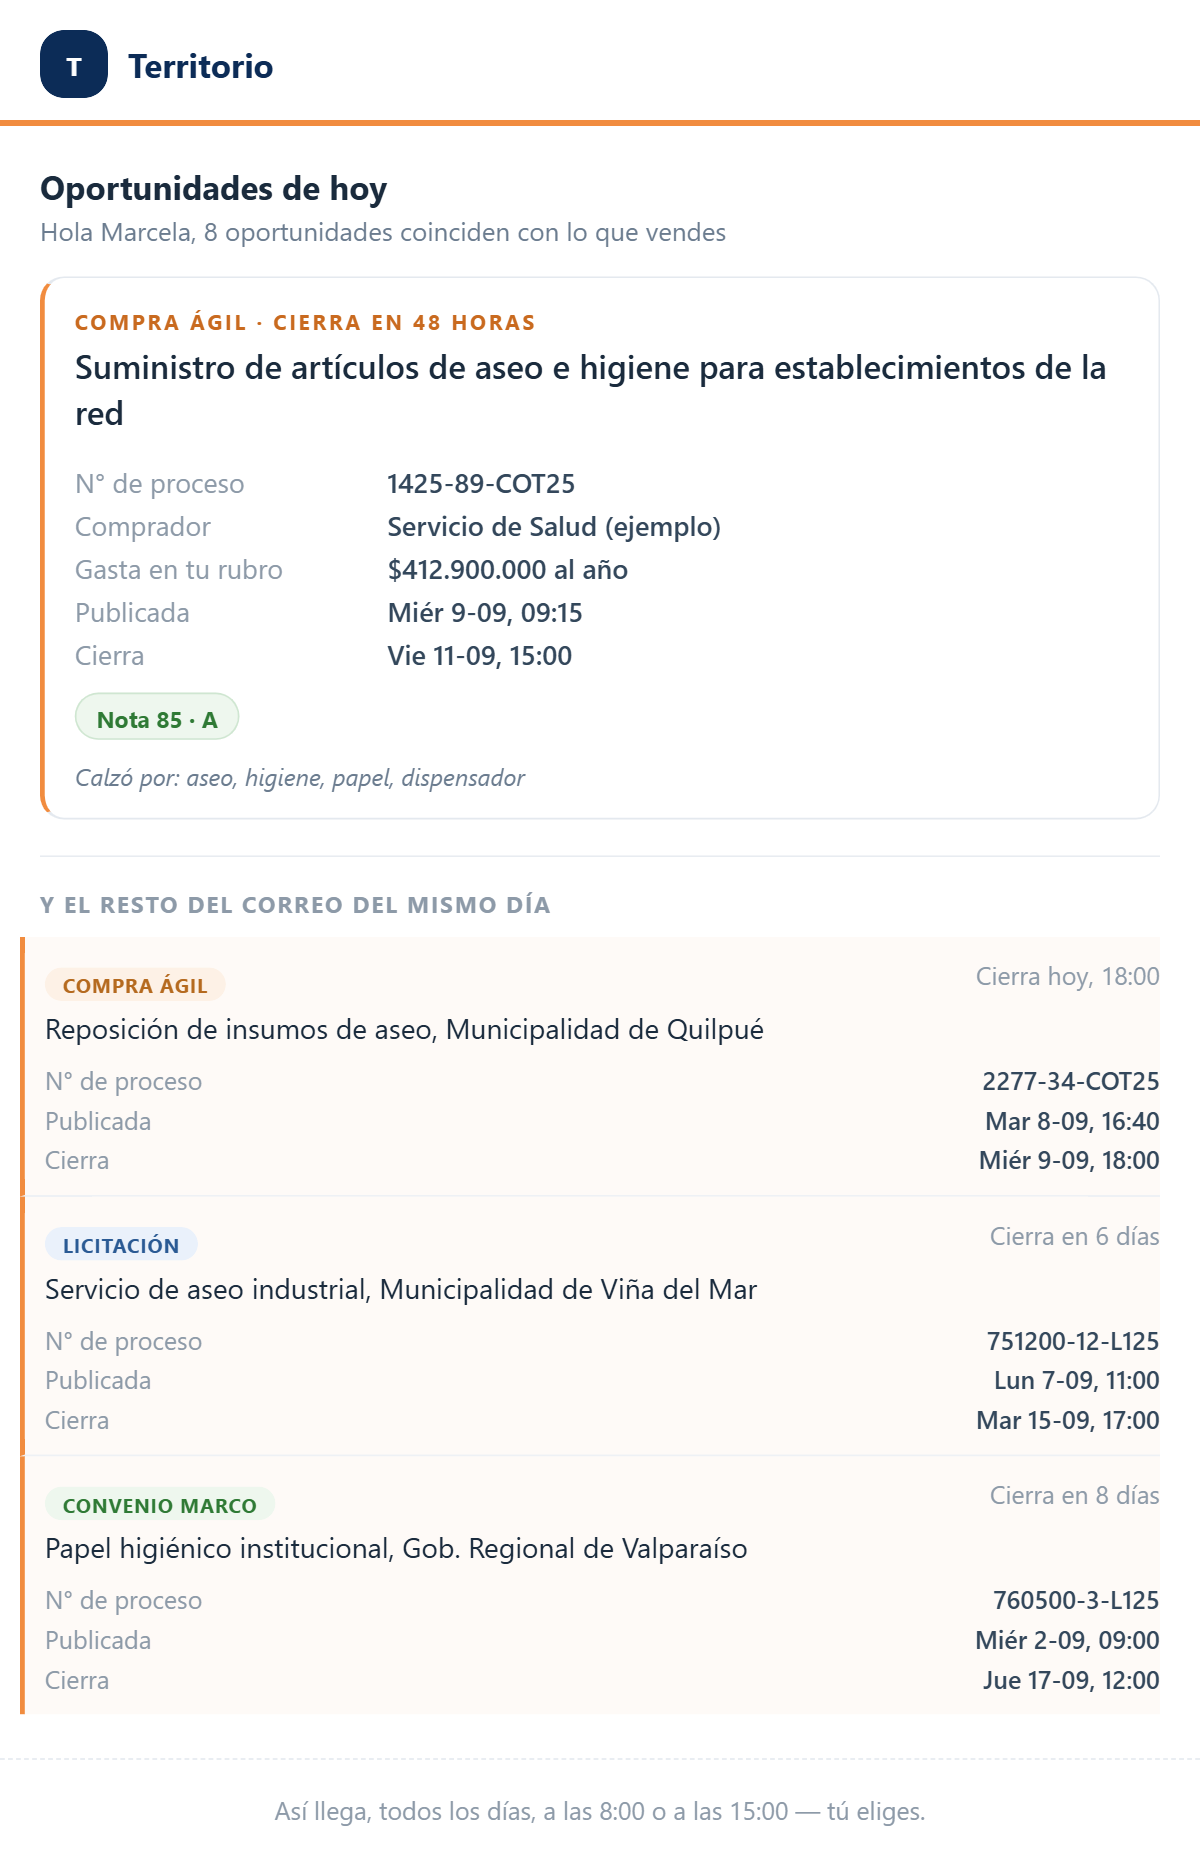
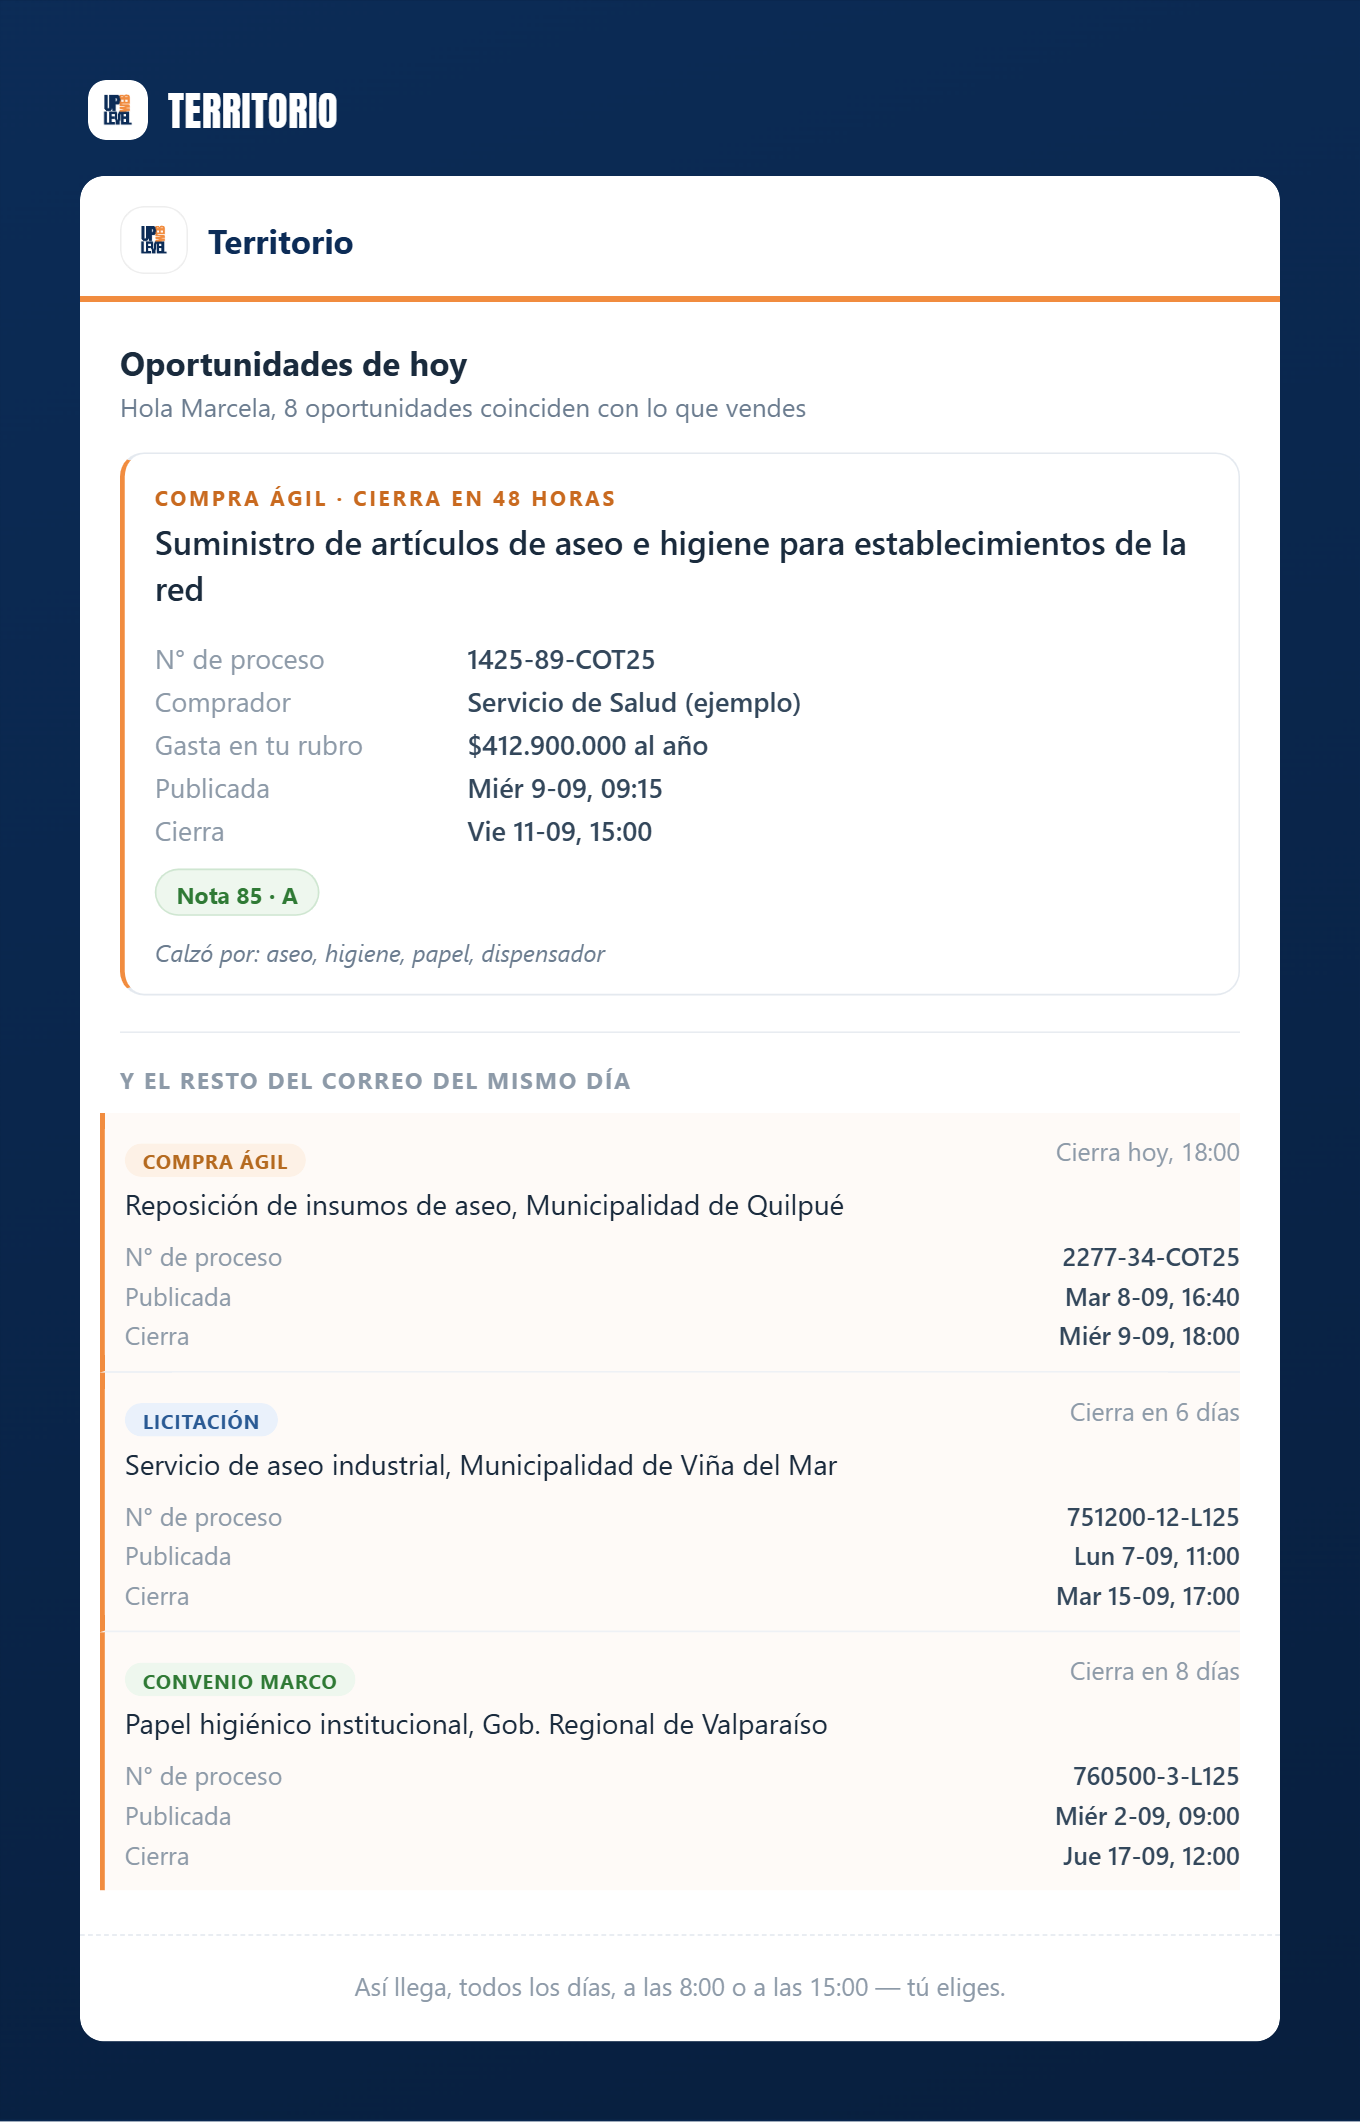
Rediseña el PDF y la imagen para que combinen con inteligencia.uplevelweb.art
Fondo marino degradado, tipografia Anton, logo real, formas capsula y
rectangulo -mismo sistema visual del sitio, en vez del look corporativo
generico anterior. Tambien acorta el boton 'Tengo dudas' a 'Conocer el
sistema' (pedido de Serling).

Changed region(s): [[0.0, 0.0, 1.0, 1.0], [0.8325, 0.4973, 0.8633, 0.5284]]

diff --git a/server.js b/server.js
@@ -143,7 +143,7 @@ function menuPrincipal(telefono) {
     "Hola, somos Territorio 👋 Te avisamos cada mañana qué licitaciones y compras ágiles del Estado calzan con lo que vendes. ¿En qué te ayudamos?",
     [
       { id: "quiero_probar", titulo: "Quiero probar gratis" },
-      { id: "tengo_dudas", titulo: "Tengo dudas" },
+      { id: "tengo_dudas", titulo: "Conocer el sistema" },
       { id: "ya_soy_cliente", titulo: "Ya soy cliente" },
     ]);
 }
